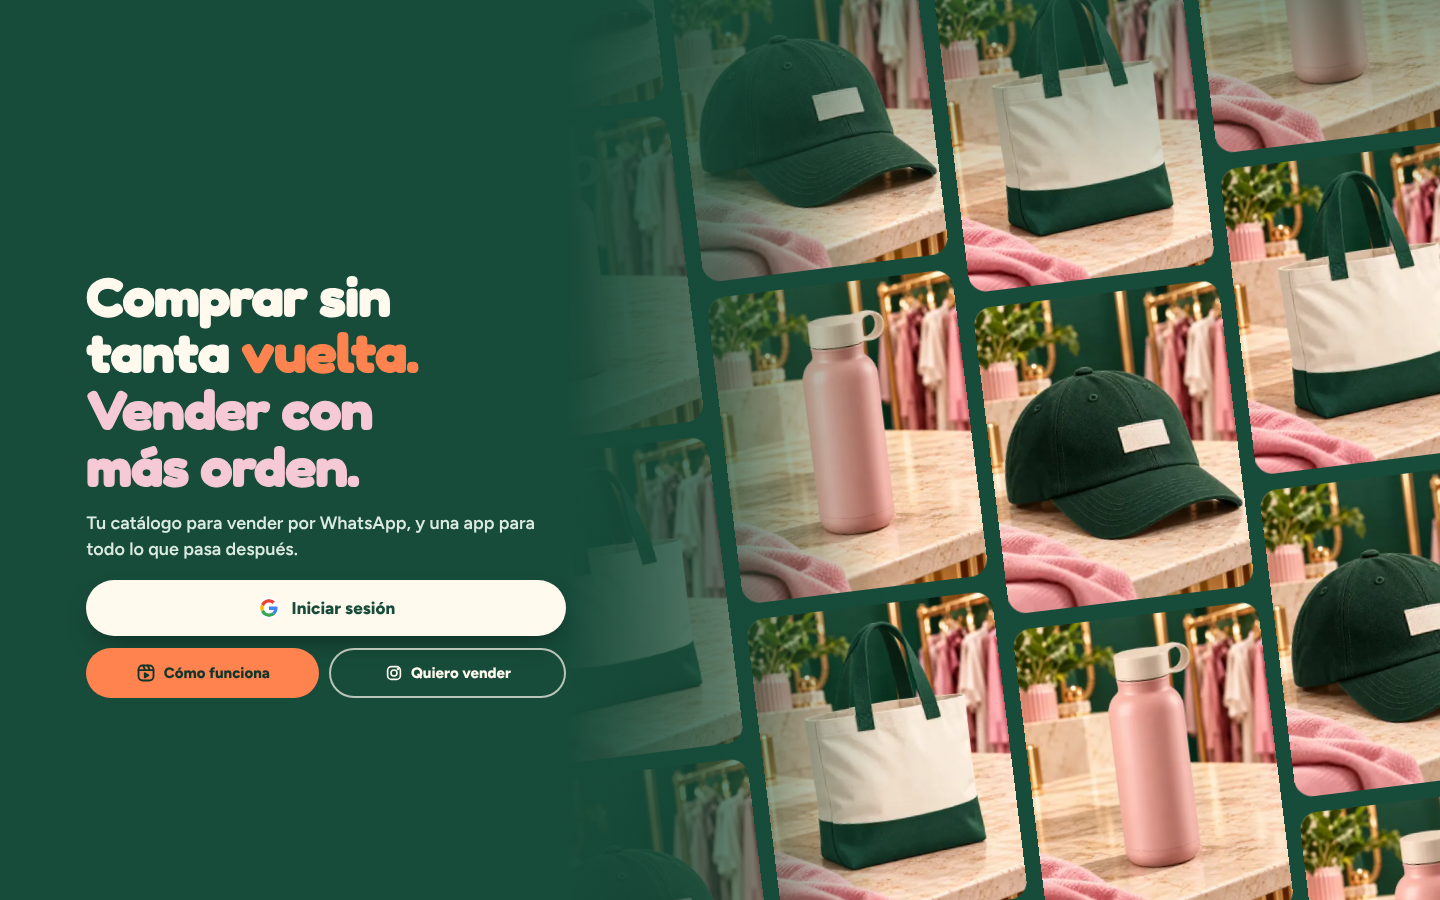
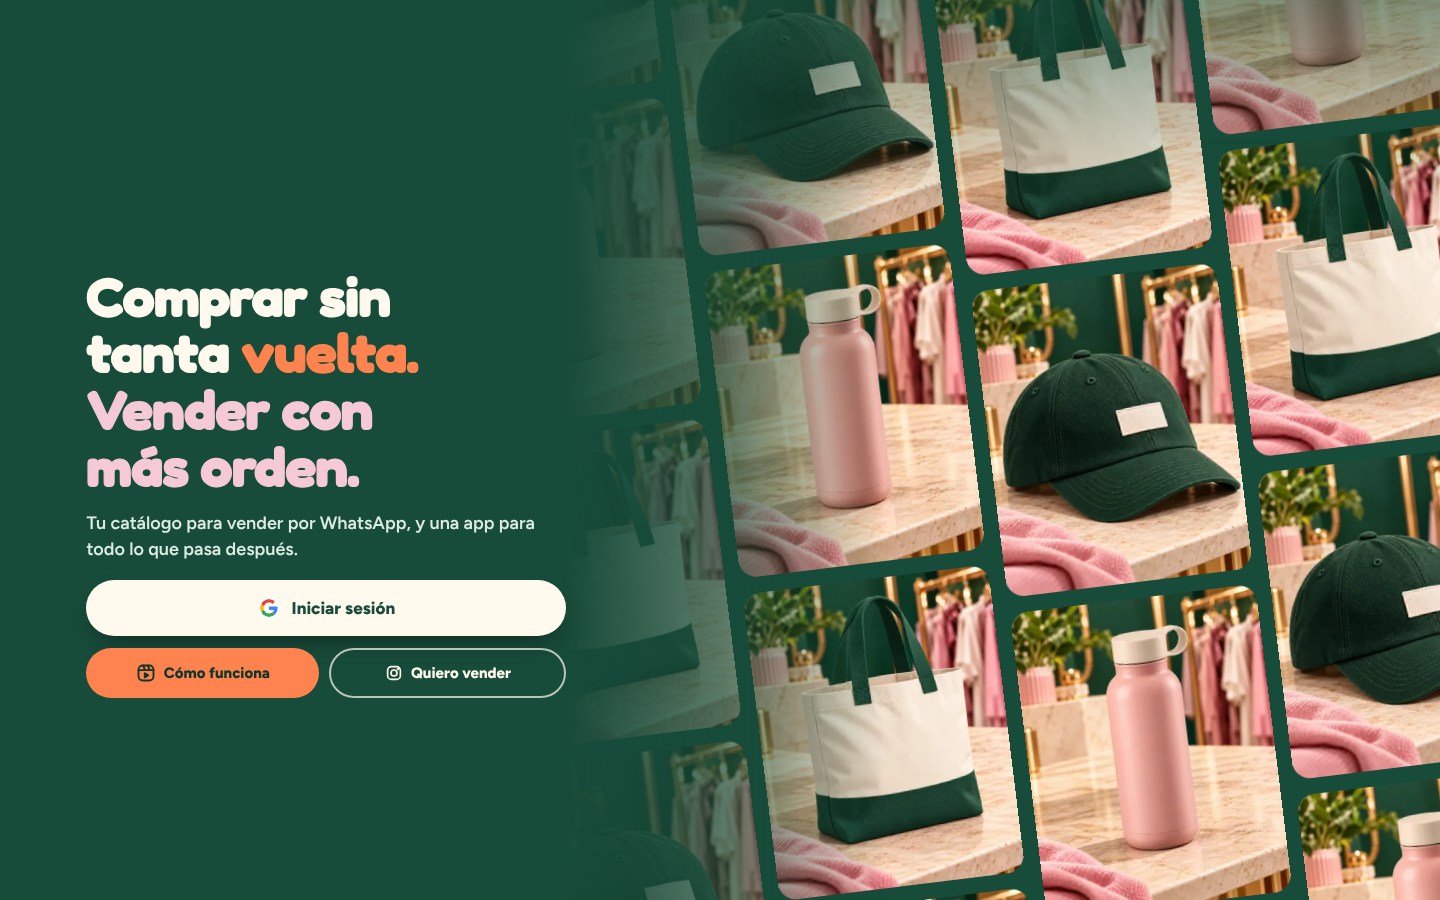
Inicio: el feed llena toda la pantalla detrás del texto, con fotos más grandes
- Altura dinámica (100dvh): sin hueco verde debajo de los botones en Safari.
- El degradado empieza justo encima del lema: las fotos se ven hasta su primera línea (≈54 % del alto a 393).
- Columnas más anchas: la del centro entera y las de los lados recortadas.

Claude-Session: https://claude.ai/code/session_016XiqFzh5UEy2xTnT27US2E

diff --git a/components/inicio-publico/pagina-principal.css b/components/inicio-publico/pagina-principal.css
@@ -13,7 +13,10 @@
   display: flex;
   flex-direction: column;
   justify-content: flex-end;
+  /* La altura que se ve de verdad (con o sin las barras de Safari): el feed llena hasta abajo y los botones quedan pegados al
+     borde de abajo, sin hueco verde debajo. */
   min-height: 100svh;
+  min-height: 100dvh;
   overflow: hidden;
   padding: calc(84px + env(safe-area-inset-top)) max(20px, env(safe-area-inset-right)) calc(30px + env(safe-area-inset-bottom))
     max(20px, env(safe-area-inset-left));
@@ -30,19 +33,22 @@
   overflow: hidden;
   pointer-events: none;
 }
+/* Columnas anchas (fotos grandes, que se lean): la del centro entera y las de los lados recortadas, unas 2.3 a la vista. */
 .ini-columnas {
+  --col: min(46vw, 230px);
   position: absolute;
-  left: -44px;
-  right: -44px;
+  left: 50%;
   top: -12%;
+  width: calc(3 * var(--col) + 20px);
   height: 130%;
+  margin-left: calc(-1.5 * var(--col) - 10px);
   display: flex;
   gap: 10px;
   transform: rotate(-7deg);
 }
 .ini-columna {
-  flex: 1;
-  min-width: 0;
+  flex: none;
+  width: var(--col);
   margin-top: var(--desfase);
 }
 /* En el teléfono, tres columnas; en escritorio, seis. */
@@ -120,9 +126,16 @@
   z-index: -1;
   left: -100vw;
   right: -100vw;
-  top: -150px;
+  /* Empieza a oscurecer justo encima del lema (las fotos se ven hasta su primera línea) y es sólido a la altura de la descripción. */
+  top: -24px;
   bottom: -100vh;
-  background: linear-gradient(180deg, rgba(23, 75, 58, 0), rgba(23, 75, 58, 0.78) 80px, var(--marca-bosque) 150px);
+  background: linear-gradient(
+    180deg,
+    rgba(23, 75, 58, 0),
+    rgba(23, 75, 58, 0.62) 70px,
+    rgba(23, 75, 58, 0.9) 150px,
+    var(--marca-bosque) 210px
+  );
   pointer-events: none;
 }
 /* Fredoka 700 con trazo, como la portada de /conoce: dos líneas por frase y ninguna se parte. */
@@ -346,9 +359,16 @@
     padding-left: max(6vw, 40px);
   }
   .ini-columnas {
+    --col: 260px;
     left: -60px;
     right: -60px;
+    width: auto;
+    margin-left: 0;
     gap: 16px;
+  }
+  .ini-columna {
+    flex: 1;
+    width: auto;
   }
   .ini-columna:nth-child(n + 4) {
     display: block;

diff --git a/components/inicio-publico/pagina-principal.tsx b/components/inicio-publico/pagina-principal.tsx
@@ -47,7 +47,7 @@ export function PaginaPrincipal({ fotos }: { fotos: FotoInicio[] }) {
               <div className="ini-tira">
                 {[...columna(fotos, k), ...columna(fotos, k)].map((f, i) => (
                   <div key={i} className="ini-foto" data-foto-inicio={f.src}>
-                    <Image src={f.src} alt="" fill sizes="(min-width: 900px) 260px, 160px" quality={70} loading={i < 3 ? "eager" : "lazy"} />
+                    <Image src={f.src} alt="" fill sizes="(min-width: 900px) 260px, 230px" quality={70} loading={i < 3 ? "eager" : "lazy"} />
                   </div>
                 ))}
               </div>
